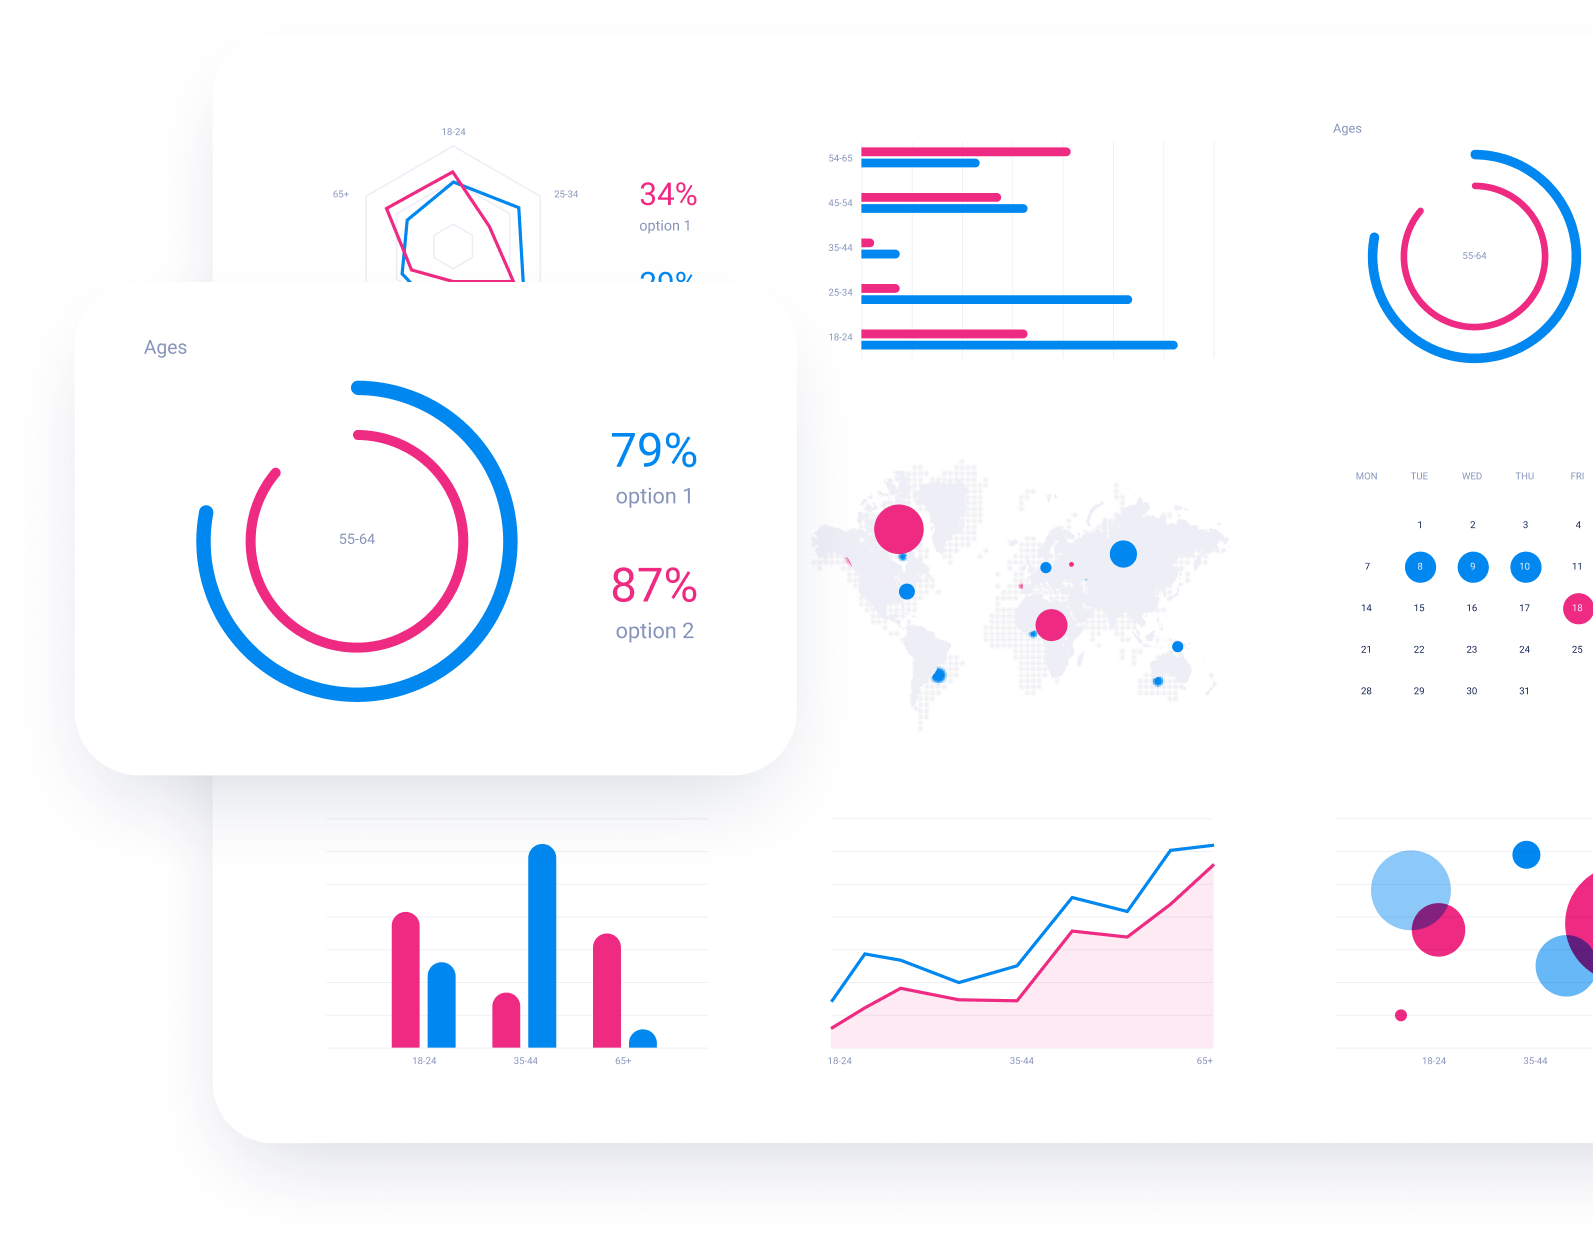
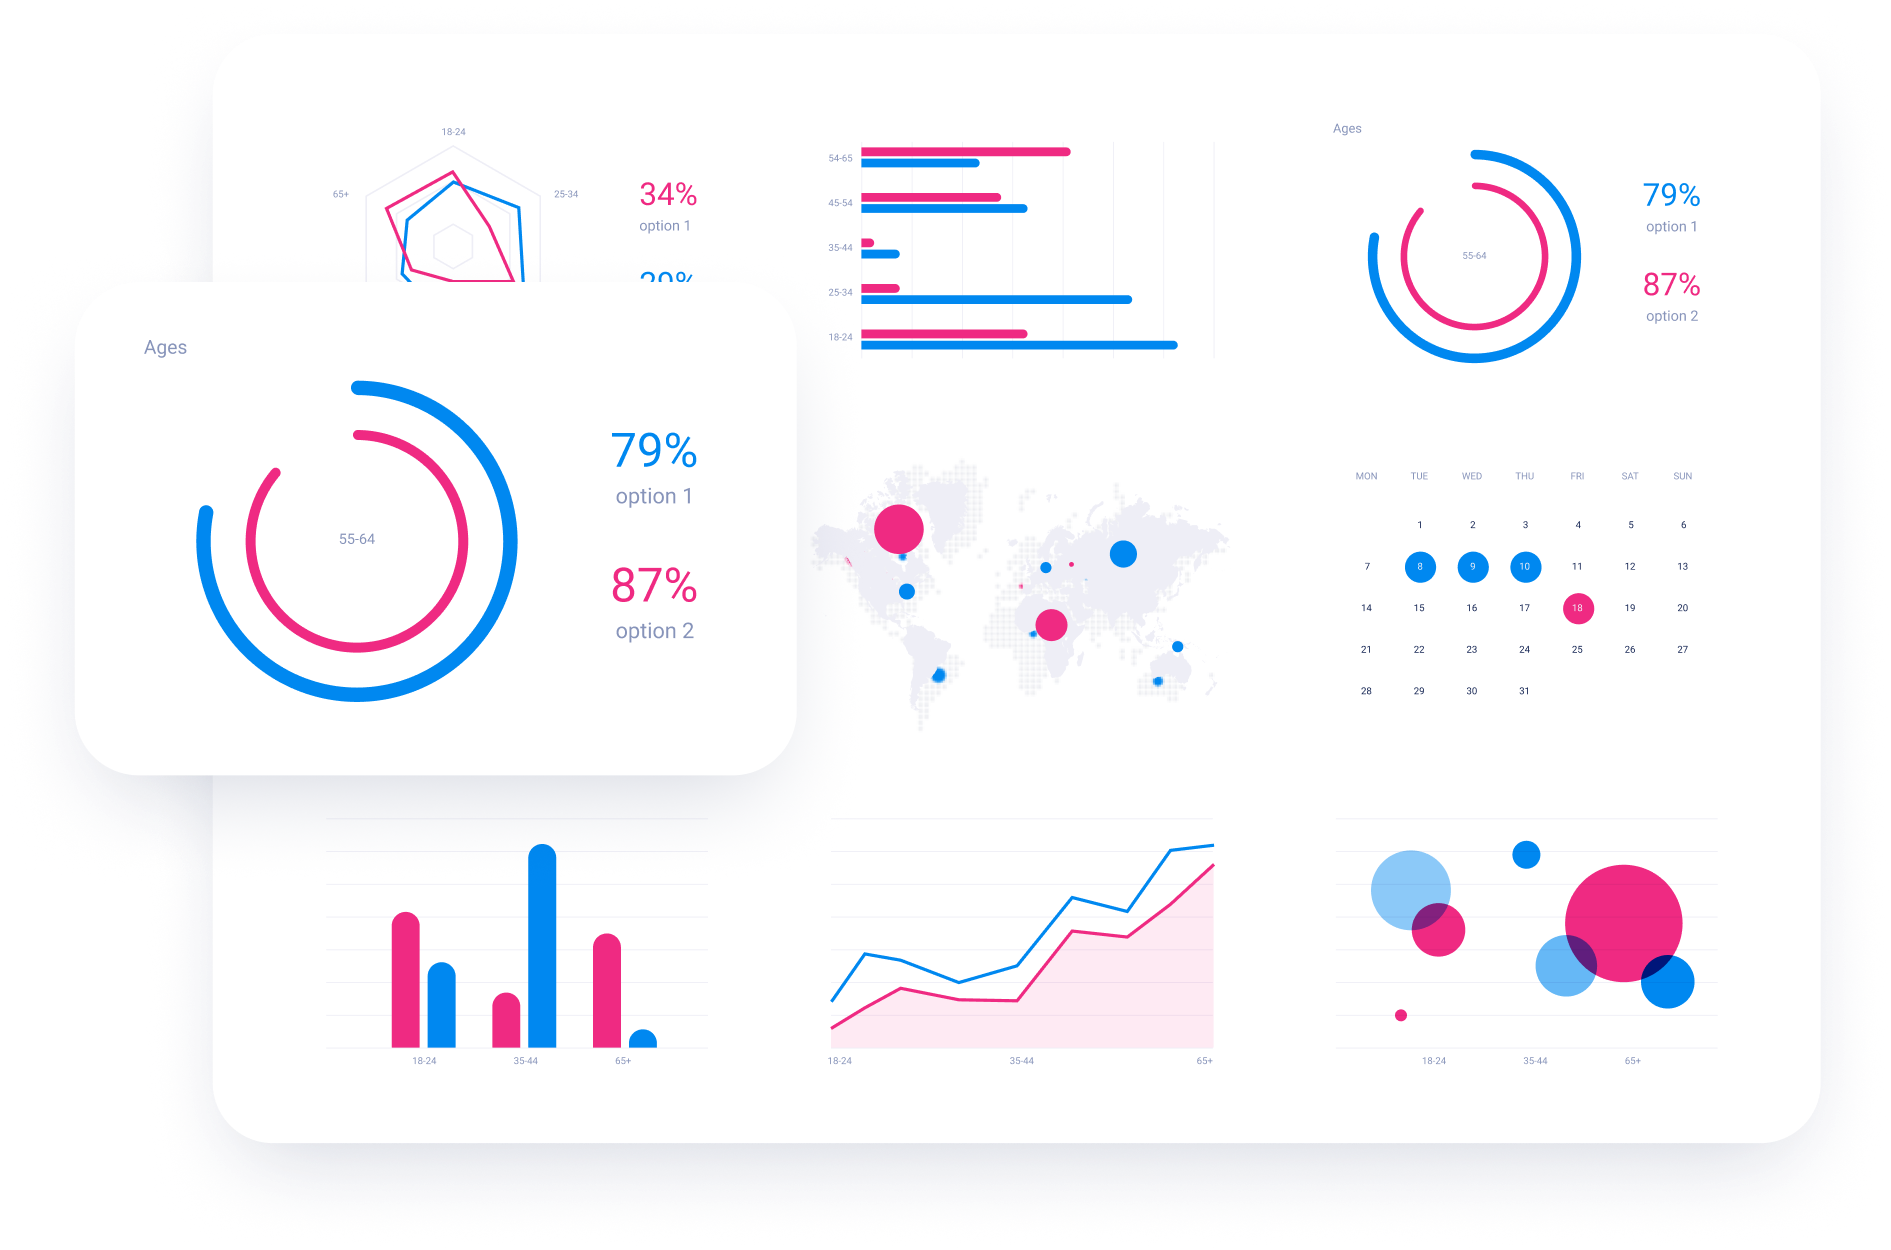
hero and footer tweaks

diff --git a/src/components/Features/index.tsx b/src/components/Features/index.tsx
@@ -2,7 +2,7 @@ import config from './config'
 
 export const Features = () => {
   return (
-    <div className="col-[main] my-10 grid gap-10 md:gap-20">
+    <div className="col-[main] my-10 grid gap-10 self-start md:gap-20">
       <div className="grid max-w-265 gap-5 justify-self-center md:gap-8 md:text-center">
         <h2 className="title text-fluid-4xl text-blue-950">Main Features</h2>
         <p className="justify-self-center text-fluid-lg text-blue-950">
@@ -13,14 +13,14 @@ export const Features = () => {
         </p>
       </div>
 
-      <ul className="grid gap-9 md:grid-cols-3 md:gap-0">
+      <ul className="grid justify-between gap-9 md:grid-cols-[repeat(3,minmax(0,380px))] md:gap-4">
         {config.features.map((item) => (
           <li
             key={item.title}
-            className="grid grid-cols-[auto_1fr] md:grid-cols-1 gap-x-7 gap-y-2 md:row-span-3 md:grid-rows-subgrid 
+            className="grid grid-cols-[auto_1fr] gap-x-7 gap-y-2 md:row-span-3 md:grid-cols-1 md:grid-rows-subgrid 
             md:place-items-center md:gap-x-0 md:gap-y-0 md:text-center"
           >
-            <item.Icon className="row-span-2 md:row-auto size-15 text-pinky-600 md:mb-7" />
+            <item.Icon className="row-span-2 size-15 text-pinky-600 md:row-auto md:mb-7" />
             <h3 className="title text-base md:mb-4">{item.title}</h3>
             <p className="text-fluid-base text-slatey-400">
               {item.description}

diff --git a/src/components/Hero/index.tsx b/src/components/Hero/index.tsx
@@ -10,13 +10,13 @@ export const Hero = () => {
 
       <div className="relative col-[wide] row-[1/3] grid grid-cols-subgrid grid-rows-subgrid text-base text-slatey-400">
         <div
-          className="col-[main] row-2 grid max-w-340 grid-rows-[min-content_min-content_120px] gap-6
-          md:col-[main/-1] md:grid-cols-[minmax(0,42fr)_minmax(0,58fr)] md:grid-rows-[auto_120px]"
+          className="col-[main] row-2 grid grid-rows-[min-content_min-content_120px] gap-6
+          md:col-[main/-1] md:grid-cols-[minmax(0,550px)_minmax(380px,1fr)] md:grid-rows-[auto_120px]"
         >
           <img
             src={heroImage}
             alt=""
-            className="col-2 row-span-2 hidden md:block"
+            className="col-2 row-span-2 -mb-4 hidden max-w-220  scale-105 drop-shadow-lg drop-shadow-black/20 filter md:block"
           />
 
           <img

diff --git a/src/components/Footer/index.tsx b/src/components/Footer/index.tsx
@@ -8,10 +8,10 @@ import config from './config'
 export const Footer = () => {
   return (
     <footer className="col-[wide] grid grid-cols-subgrid bg-blue-950 text-slatey-400">
-      <div className="col-[main] py-8 min-h-40 flex items-center justify-between gap-8">
+      <div className="col-[main] flex min-h-40 items-center justify-between gap-8 py-8">
         <Logo className="w-32 md:w-45" />
 
-        <nav>
+        <nav className="hidden md:block">
           <ul className="flex items-center gap-4">
             {config.nav.map((item) => (
               <li key={item}>

diff --git a/src/styles/components/wrapper.css b/src/styles/components/wrapper.css
@@ -7,6 +7,7 @@
       [wide] minmax(0, 1fr) [main-start] minmax(auto, 1180px)
       [main-end] minmax(0, 1fr) [wide-end];
     grid-auto-rows: min-content;
+    grid-template-rows: min-content min-content 1fr;
     column-gap: calc(var(--spacing) * 5);
     min-height: 100vh;
   }